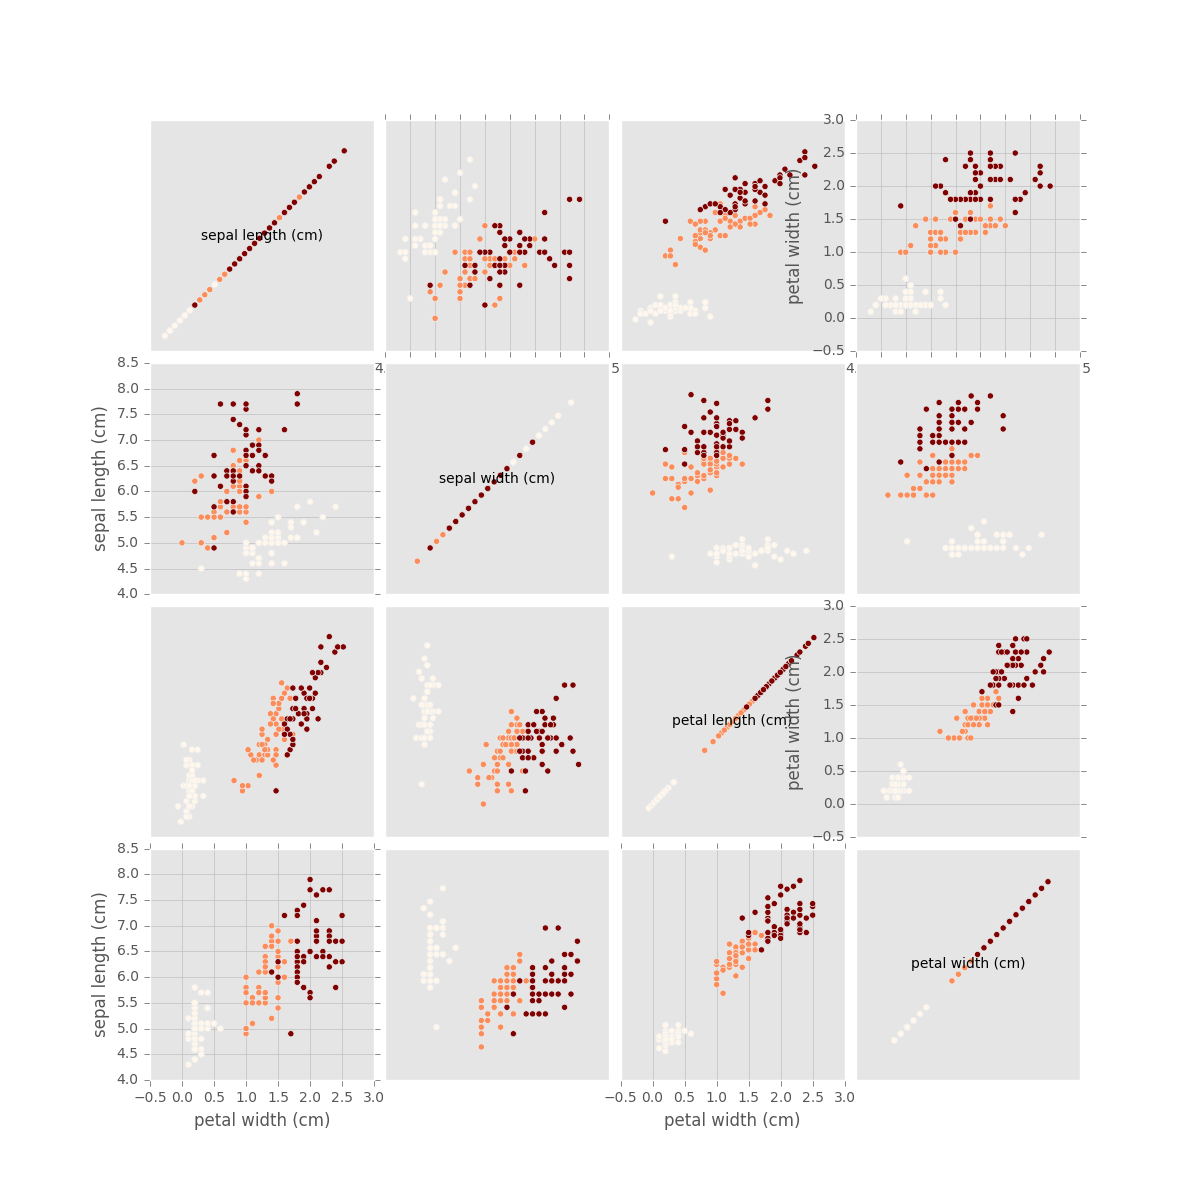
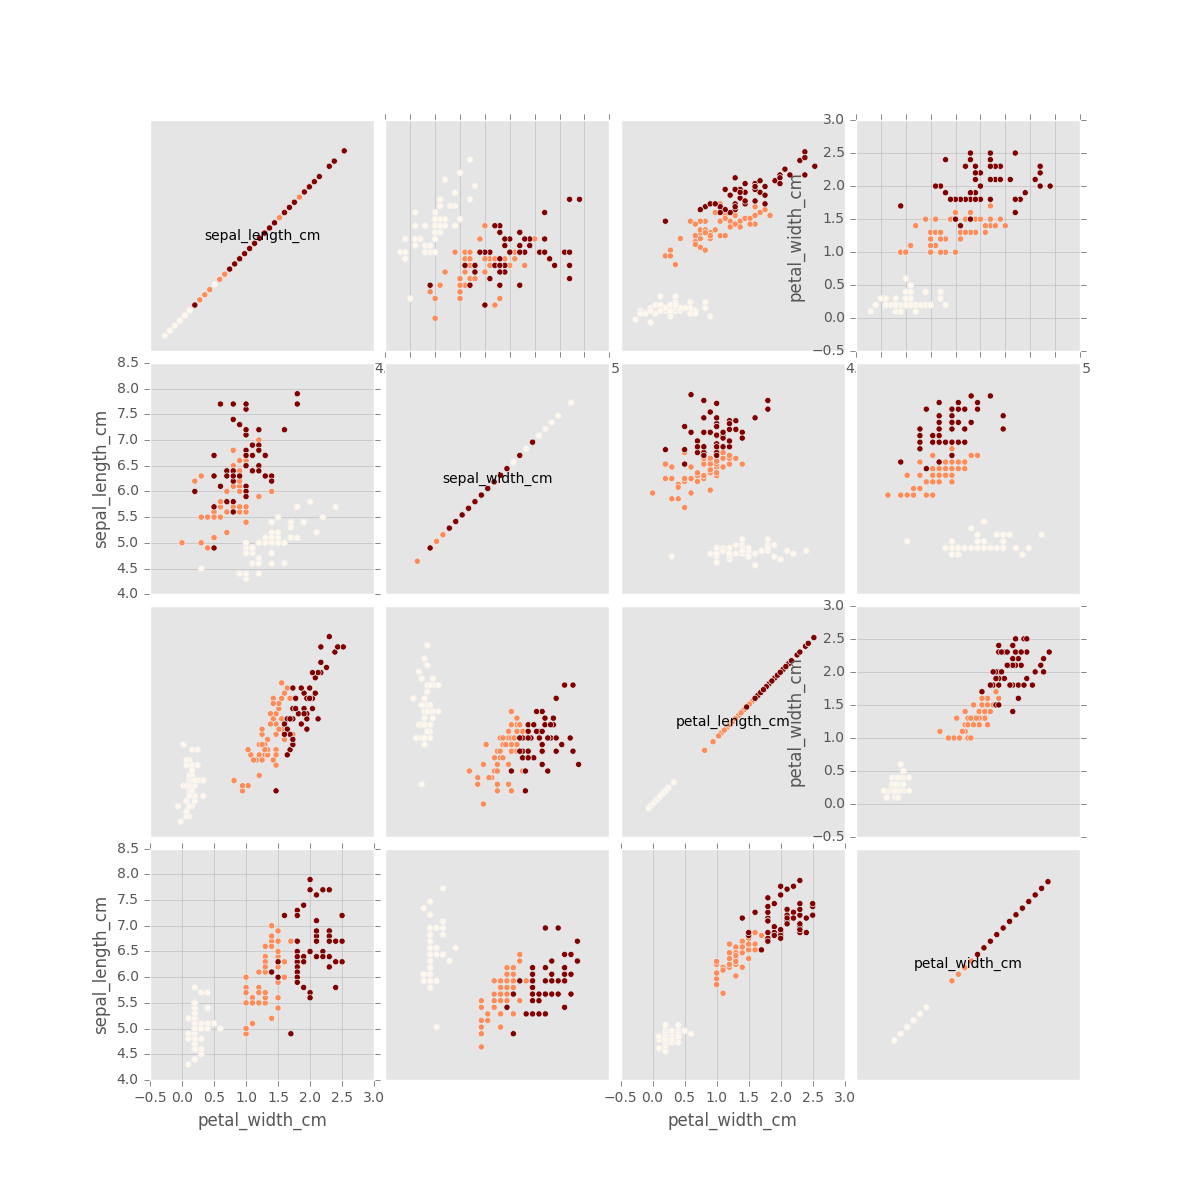
Better examples + reame.md typos

diff --git a/Examples/iris-colored_acatter_matrix.py b/Examples/iris-colored_acatter_matrix.py
@@ -1,19 +1,19 @@
 from sklearn import datasets
 from MachineLearningUtils.UsefulPlots import DataPlots
-from matplotlib import cm
-from matplotlib import pyplot as plt
-import pandas as pd
-import  numpy as np
+from MachineLearningUtils.DatasetTools import DatasetsTools
+
 
 
 def main():
-
-    iris = datasets.load_iris()
-    _df= pd.DataFrame(data= np.c_[iris['data'], iris['target']],
-                     columns= iris['feature_names'] + ['target'])
-    plotter=DataPlots(df=_df, ggplot=True)
-    fig=plotter.colored_scatter_matrix(df=_df,colored_column_name="target")
+    # load iris data into DataFrame
+    iris_dtst = DatasetsTools(datasets.load_iris)
+    iris_df = iris_dtst.data_as_df()
+    print ("columns: {}".format(list(iris_df)))
+    print (iris_dtst.info)
+    plotter=DataPlots(df=iris_df, ggplot=True)
+    fig=plotter.colored_scatter_matrix(df=iris_df,colored_column_name="Target")
     fig.savefig("iris-colored_acatter_matrix.png")
+
     return
 
 if __name__ == '__main__':

diff --git a/README.md b/README.md
@@ -11,10 +11,20 @@ Some useful plots for data exploration:
 - colored_scatter -  Plot scatter of x vs y with color of third element
 - colored_scatter_matrix - A matrix of colored_scatter
 
+### EvaluationPlots
+plot that helps to evaluate models
+- predicted_vs_actual - This method creates sctter plot of
+                        predicted values vs the actual valus.
+
+
 ### VisPlotPlayGround
 playground for visualization (color map and more...)
-   - show_colormap - Show the gradiant of cmap
-   - grayify_cmap  - Return a grayscale version of the colormap
+- show_colormap - Show the gradiant of cmap
+- grayify_cmap  - Return a grayscale version of the colormap
+
+### DatasetsTools
+easyier skitlearn dataset exploration mainly for unittests and demos
+- data_as_df
 
 ### Examples:
 #### UsefulPlots.DataPlots.colored_scatter_matrix: [(show me the code...)](Examples/iris-colored_acatter_matrix.py)
